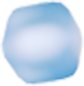
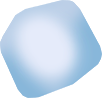
各ページ飾り画像差し替え、位置やサイズを調整。リクルートページの画像差し替えとテキスト修正

diff --git a/app/pages/recruit/index.vue b/app/pages/recruit/index.vue
@@ -13,8 +13,14 @@
         <NuxtImg src="/recruit/pic-recruit_sp.png" alt="" format="webp" class="img -sp" />
       </div>
 
-      <div class="textArea" data-reveal>
-        <p class="catchCopy">Elementa Japanは<br>ゲームの可能性を<wbr>共に再定義し<br><span>「愛される楽しさ」</span>を創り出す仲間を<wbr>募集しています。</p>
+      <div class="textArea" data-reveal-fade>
+        <p class="catchCopy">Elementa Japanは<br>ゲームの可能性を<wbr>共に再定義し<br><span>「楽しさ」</span>を創り出す仲間を<wbr>募集しています。</p>
+      </div>
+
+      <div class="decArea">
+        <FloatItem class="dec" :duration="4.2" :delay="-0.2">
+          <NuxtImg src="/dec/recruit-01.png" alt="" format="webp" />
+        </FloatItem>
       </div>
 
     </section>
@@ -31,6 +37,15 @@
     <section class="entryBox" data-reveal>
       <div class="inner">
         <p class="comingsoon">準備中</p>
+      </div>
+
+      <div class="decArea">
+        <FloatItem class="dec -d01" :duration="4.2" :delay="-0.2">
+          <NuxtImg src="/dec/recruit-02.png" alt="" format="webp" />
+        </FloatItem>
+        <FloatItem class="dec -d02" :duration="4.2" :delay="-0.2">
+          <NuxtImg src="/dec/recruit-03.png" alt="" format="webp" />
+        </FloatItem>
       </div>
     </section>
   </div>
@@ -122,10 +137,9 @@ useSeoMeta({
     left: 0;
     width: 100%;
     font-size: clamp(1.5rem, pxToVw(32,1400), 3.2rem);
-    transform: translateY(25%);
+    transform: translateY(5%);
 
     & > .catchCopy {
-      margin-bottom: 1em;
       font-size: 1em;
       font-weight: 700;
       line-height: 1.6;
@@ -157,6 +171,23 @@ useSeoMeta({
     }
   }
 
+  & > .decArea {
+    position: absolute;
+    top: 0;
+    left: 0;
+    width: 100%;
+    height: 100%;
+    font-size: clamp(1rem, pxToVw(20,1400), 2rem);
+    pointer-events: none;
+
+    & > .dec {
+      position: absolute;
+      top: -5em;
+      left: 6em;
+      width: pxToPer(110,1400);
+    }
+  }
+
   @media (--mobile) {
     padding: 0;
     margin-bottom: 5em;
@@ -165,14 +196,14 @@ useSeoMeta({
       top: 0;
       left: 50%;
       width: 140%;
-      height: 90%;
-      transform: translate(-50%, 20%);
+      height: 87%;
+      transform: translate(-50%, 23%);
     }
 
     & > .textArea {
       position: relative;
       font-size: clamp(1.2rem, pxToVw(28,768), 4rem);
-      transform: translateY(-1em);
+      transform: translateY(-.8em);
     }
 
     & > .imgArea {
@@ -190,11 +221,21 @@ useSeoMeta({
         }
       }
     }
+
+    &> .decArea > .dec {
+      top: -5em;
+      left: 6em;
+      width: pxToPer(55,450);
+    }
   }
 
   @media (--sp) {
     &:before {
       height: 85%;
+    }
+
+    & > .textArea {
+      transform: translateY(-1.2em);
     }
 
     & > .imgArea {
@@ -218,6 +259,7 @@ useSeoMeta({
 }
 
 .entryBox {
+  position: relative;
   width: 100%;
   max-width: 103rem;
   margin: 0 auto;
@@ -230,6 +272,46 @@ useSeoMeta({
 
     @media (--sp) {
       font-size: clamp(1.2rem, 1.3em, 2.4rem);
+    }
+  }
+
+  & > .decArea {
+    position: absolute;
+    top: 0;
+    left: 0;
+    width: 100%;
+    height: 100%;
+    font-size: clamp(1rem, pxToVw(20,1030), 2rem);
+    pointer-events: none;
+
+    & > .dec {
+      position: absolute;
+
+      &.-d01 {
+        top: -8em;
+        right: 0;
+        width: pxToPer(99,1030);
+      }
+
+      &.-d02 {
+        top: 0;
+        left: 0;
+        width: pxToPer(46,1030);
+      }
+
+      @media (--mobile) {
+        &.-d01 {
+          top: -13em;
+          right: 1em;
+          width: pxToPer(45,450);
+        }
+
+        &.-d02 {
+          top: -3em;
+          left: 2em;
+          width: pxToPer(23,450);
+        }
+      }
     }
   }
 }

diff --git a/app/pages/works/index.vue b/app/pages/works/index.vue
@@ -33,9 +33,6 @@
               <FloatItem class="dec -d03" :duration="5" :delay="-2.3">
                 <NuxtImg src="/dec/works-03.png" alt="" format="webp" />
               </FloatItem>
-              <FloatItem v-if="!isEvenCount" class="dec -d04" :duration="4.4" :delay="-0.7">
-                <NuxtImg src="/dec/works-04.png" alt="" format="webp" />
-              </FloatItem>
               <FloatItem v-if="!isEvenCount" class="dec -d05" :duration="3.8" :delay="-1.6">
                 <NuxtImg src="/dec/works-05.png" alt="" format="webp" />
               </FloatItem>
@@ -241,25 +238,25 @@ onMounted(() => {
     &.-d03 {
       bottom: 0;
       left: -2em;
-      width: pxToPer(191,1137);
+      width: pxToPer(180,1137);
     }
 
-    &.-d04 {
+    /* &.-d04 {
       right: 1em;
       bottom: 30em;
       width: pxToPer(177,1137);
-    }
+    } */
 
     &.-d05 {
-      right: -1em;
-      bottom: 28em;
-      width: pxToPer(44,1137);
+      right: 1em;
+      bottom: 32em;
+      width: pxToPer(102,1137);
     }
 
     &.-d06 {
       right: 20em;
       bottom: 17em;
-      width: pxToPer(94,1137);
+      width: pxToPer(77,1137);
     }
 
     @media(--sp) {
@@ -281,7 +278,7 @@ onMounted(() => {
         width: pxToPer(120,450);
       }
 
-      &.-d04, &.-d05, &.-d06 {
+      &.-d05, &.-d06 {
         display: none;
       }
     }

diff --git a/app/pages/company/index.vue b/app/pages/company/index.vue
@@ -168,7 +168,7 @@ useSeoMeta({
       &.-d01 {
         top: -9em;
         left: 5em;
-        width: pxToPer(200,1262);
+        width: pxToPer(175,1262);
       }
 
       &.-d02 {
@@ -332,9 +332,9 @@ useSeoMeta({
       position: absolute;
 
       &.-d05 {
-        right: 0;
+        right: -4em;
         bottom: 15%;
-        width: pxToPer(177,1080);
+        width: pxToPer(88,1080);
       }
 
       &.-d06 {
@@ -357,7 +357,7 @@ useSeoMeta({
       @media(--sp) {
         &.-d05 {
           right: 0;
-          bottom: -5em;
+          bottom: -9em;
           width: pxToPer(88,450);
         }
       }

diff --git a/app/pages/index.vue b/app/pages/index.vue
@@ -388,7 +388,7 @@ onMounted(() => {
 
       &.-d04 {
         right: 35%;
-        bottom: -1em;
+        bottom: -3em;
         width: pxToPer(177,1300);
       }
 
